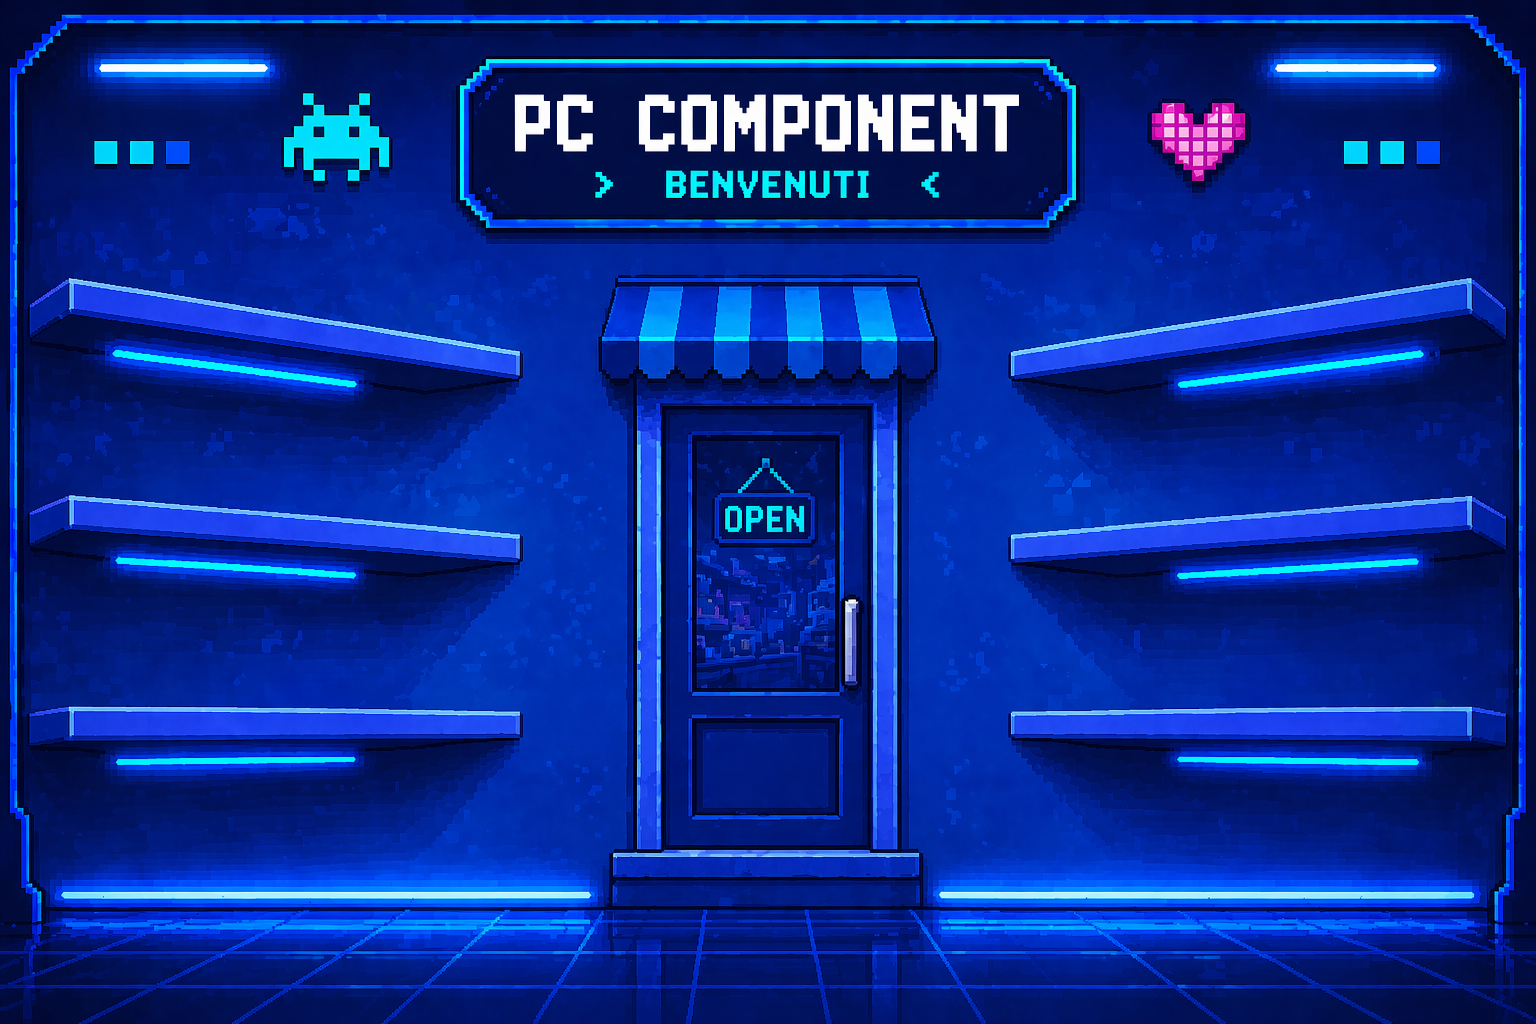
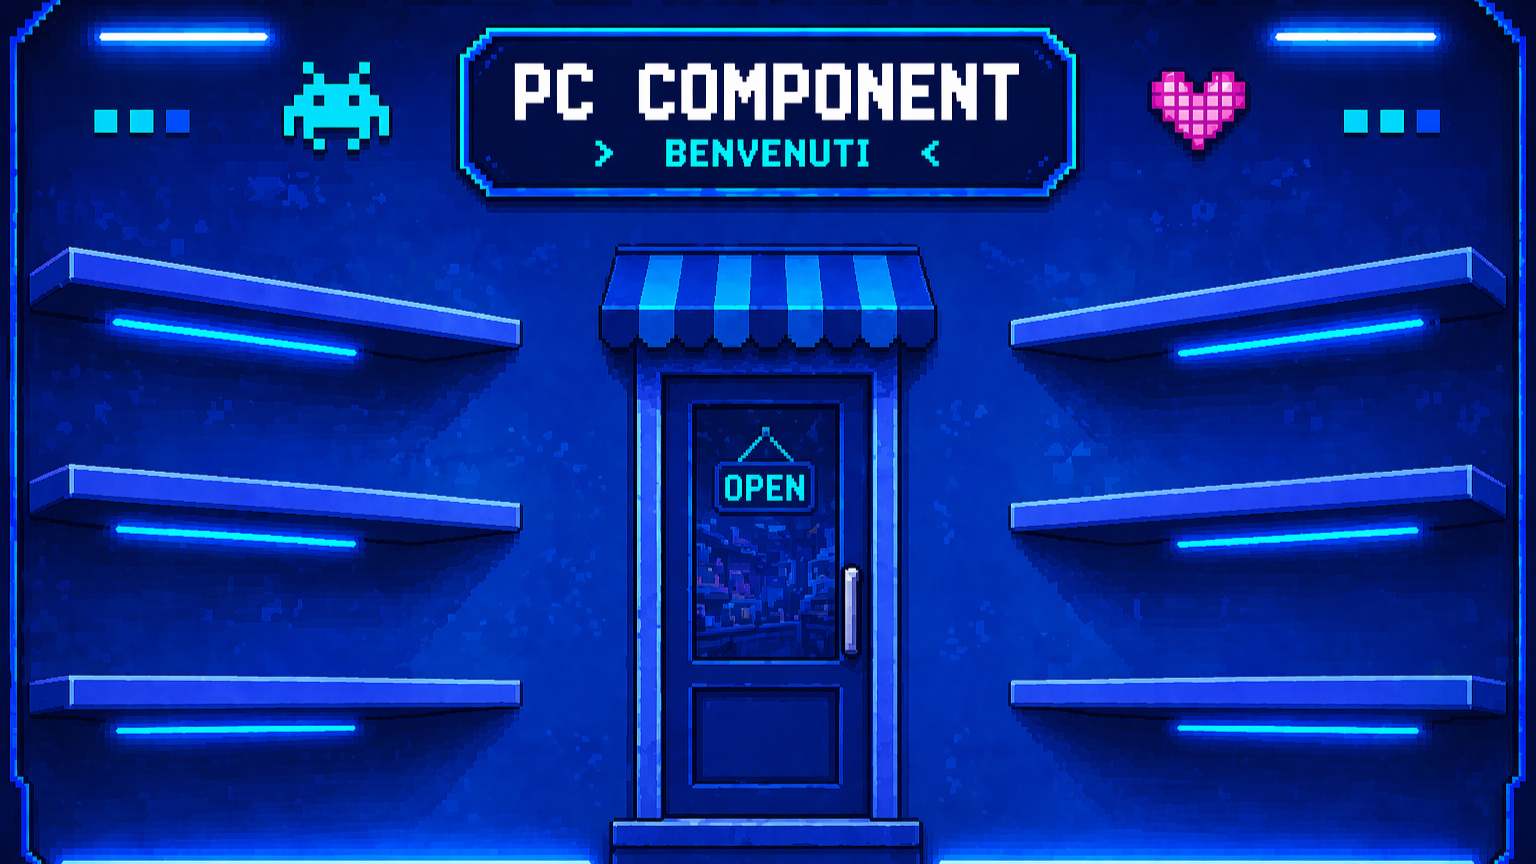
miglioramento alcune cose

diff --git a/index.html b/index.html
@@ -1,6 +1,8 @@
 <html>
     <head>
         <title>Ricerca Componenti</title>
+        <meta charset="UTF-8">
+        <meta name="viewport" content="width=device-width, initial-scale=1.0">
         <style>
                 #formscelta
                 {
@@ -59,21 +61,12 @@
                 }
             body   
             {
-                background: linear-gradient(-45deg, #ee7752, #e73c7e, #23a6d5, #23d5ab);
-                background-size: 400% 400%;
-                animation: gradient 10s ease infinite;
+                background: url(assets/background/backgroundhome.png);
+                background-size: cover; 
+                background-position: center; 
+                background-repeat: no-repeat;
             }
-            @keyframes gradient {
-                0% {
-                    background-position: 0% 50%;
-                }
-                50% {
-                    background-position: 100% 50%;
-                }
-                100% {
-                    background-position: 0% 50%;
-                }
-            }
+            
             #formscelta
             {
                 position: absolute;
@@ -87,37 +80,6 @@
                 box-shadow: -5px -5px 20px rgb(243, 212, 246),
                             5px 5px 20px rgb(167, 156, 168);
                 color:black;
-            }
-            #titolohome:hover
-            {
-                cursor: pointer;
-            }
-            #titolohome
-            {
-                position: absolute;
-                left: 44%;
-                top: 3%;
-                font-size: 200%;
-                height: 5%;
-                width:13%;
-                background: rgba(150, 210, 223, 0.487);
-                backdrop-filter: blur(16px);
-                box-shadow: -5px -5px 15px rgb(255, 255, 255),
-                            5px 5px 15px rgb(167, 156, 168);
-                border-radius: 20px;
-                border: 0.1px solid black;
-                padding-top: 5px;
-            }
-            #titoloformscelta
-            {
-                position: absolute;
-                left: 37%;
-                top: 0%;
-                font-size: 150%;
-                text-decoration: underline;
-                text-decoration-color: black;
-                text-decoration-thickness: 2px;
-                text-underline-offset: 4px;
             }
             #ricerca
             {
@@ -180,19 +142,6 @@
                 overflow-y: auto; 
                 overflow-x: hidden; 
                 display: none;
-            }
-            #bottonemostrar
-            {
-                position: absolute;
-                left: 15%;
-                top: 20%;
-                height: 10%;
-                width: 70%;
-                background: rgba(255, 255, 255, 0.2);
-                backdrop-filter: blur(10px);
-                border-radius: 20px;
-                color:black;
-                font-size: 150%;
             }
             #eliminaform
             {
@@ -257,12 +206,6 @@
         </style>
     </head>
     <body>
-        <h1 id="titolohome" onclick="mostraFormScelta()">🤖Componenti🤖</h1>
-        <div id="formscelta">
-            <h1 id="titoloformscelta">Cosa Vuoi Fare:</h1>
-            <button id="bottonemostrar" onclick="mostraRicerca()">Ricerca Componenti</button>
-            <button id="bottonemostrae" onclick="mostraElimina()">Elimina Componenti</button>
-        </div>
         <div id="eliminaform">
             <h1 style="position: absolute;left: 37%; font-size: 150%; top: 1%;">Cancellazione utente</h1>
             <input type="text" id="testoelimina" oninput="aggiornalista2() " placeholder="Ricerca un componente da eliminare     &#128270">
